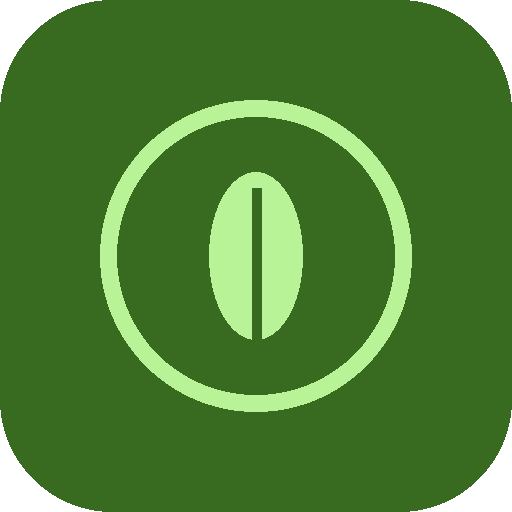
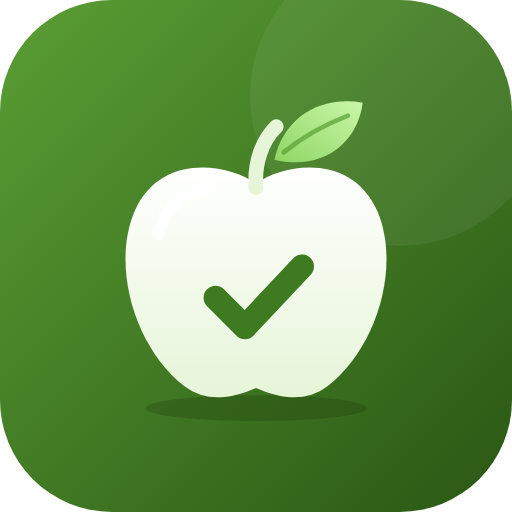
feat: nuova icona app

diff --git a/index.html b/index.html
@@ -8,7 +8,8 @@
   <meta name="theme-color" content="#386A20" media="(prefers-color-scheme: light)">
   <meta name="theme-color" content="#11140F" media="(prefers-color-scheme: dark)">
   <link rel="manifest" href="manifest.webmanifest">
-  <link rel="icon" href="icons/icon-192.png">
+  <link rel="icon" href="icons/icon-any.svg" type="image/svg+xml">
+  <link rel="icon" href="icons/icon-192.png" sizes="192x192">
   <link rel="apple-touch-icon" href="icons/apple-touch-icon.png">
   <link rel="stylesheet" href="app.css">
 </head>

diff --git a/sw.js b/sw.js
@@ -1,7 +1,7 @@
-const CACHE = 'dieta-v2';
+const CACHE = 'dieta-v3';
 const ASSETS = [
   './', 'index.html', 'app.css', 'app.js', 'manifest.webmanifest', 'data/diet.json', 'data/ingredients.json',
-  'icons/icon-192.png', 'icons/icon-512.png', 'icons/maskable-512.png', 'icons/apple-touch-icon.png',
+  'icons/icon-any.svg', 'icons/icon-192.png', 'icons/icon-512.png', 'icons/maskable-512.png', 'icons/apple-touch-icon.png',
 ];
 
 self.addEventListener('install', e => {
